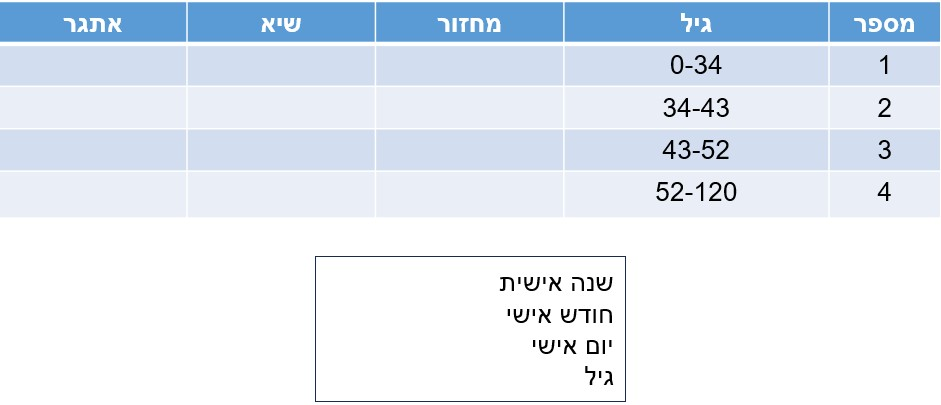
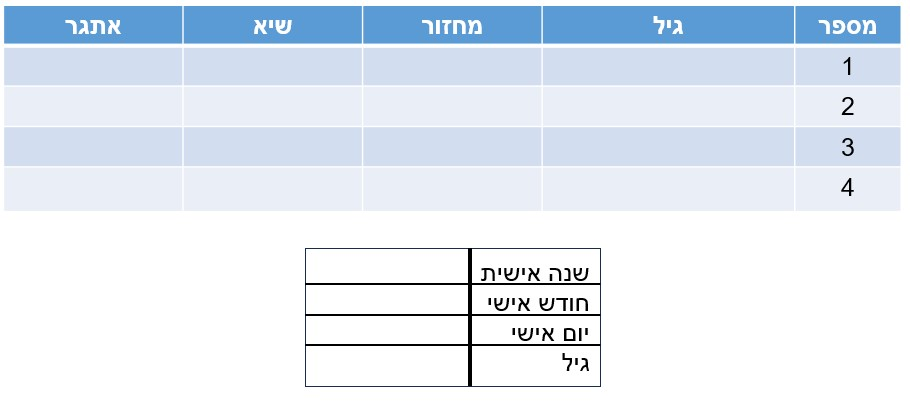
fix age calculate

diff --git a/templates/result.html b/templates/result.html
@@ -22,7 +22,7 @@
   <link rel="stylesheet" type="text/css" href="static/styles.css">
 </head>
 <body>
-  <h1>המפה הנומרולוגית</h1>
+  <h1><center>המפה הנומרולוגית</center></h1>
 <!--  <h2>תוצאות:</h2>-->
 <!--  <p>שם פרטי: {{ first_name }}</p>-->
 <!--  <p>שם משפחה: {{ last_name }}</p>-->

diff --git a/EldarNumerology.py b/EldarNumerology.py
@@ -167,7 +167,8 @@ class Person:
         total = int(day) + int(month) + int(year)
         # print(f"day is {int(day)}, month is : {int(month)}, years is: {int(year)}, total is : {total}")
         total = self.reduce_value(total)
-        return total
+        self.spirala = total
+        return self.spirala
 
     def getSpirala2(self):
         """Return the number for the spirala ."""
@@ -375,20 +376,42 @@ class Person:
 
         # Parse the date of birth string into a datetime object
         dob = datetime.strptime(date_of_birth, "%d/%m/%Y")
-
         # Get the current date
+        self.firstAge = 36 - self.spirala
+        self.printFirstAge = f"0-{self.firstAge}"
         current_date = datetime.now()
         self.peron_day = self.peron_month + self.reduce_value(current_date.day)
         print(f"personal_day is : {self.peron_day}")
-        print(f"age is : {self.actual_age}")
+        print(f"first age is : {self.printFirstAge}")
         return self.reduce_value(self.peron_day)
 
     def personal_age(self):
         date_of_birth = self.dateofBirth
         dob = datetime.strptime(date_of_birth, "%d/%m/%Y")
         current_date = datetime.now()
-        self.actual_age = current_date.year - dob.year
+        # self.actual_age = current_date.year - dob.year
         return self.actual_age
+
+    def first_age(self):
+        self.firstAge = 36 - self.spirala
+        self.printFirstAge = f"0-{self.firstAge}"
+        print(self.printFirstAge)
+        return self.printFirstAge
+
+    def second_age(self):
+        self.secondAge = int(self.firstAge)+9
+        self.printSecondAge = f"{self.firstAge}-{self.secondAge}"
+        return self.printSecondAge
+
+    def third_age(self):
+        self.thirdAge = int(self.secondAge) + 9
+        self.printThirdAge = f"{self.secondAge}-{self.thirdAge}"
+        return self.printThirdAge
+
+    def fourth_age(self):
+        self.fourthAge = 120
+        self.printFourthAge = f"{self.thirdAge}-{self.fourthAge}"
+        return self.printFourthAge
 
 def plant_parameters(image, parameters, locations):
     """
@@ -455,7 +478,10 @@ def index():
         calThirdChallenge = (person.calculate_challenge(thirdChallenge))
         fourthChallenge = (person.fourth_challenge())
         calFourthChallenge = (person.calculate_challenge(fourthChallenge))
-
+        calFirstAge = (person.first_age())
+        calSecondAge = (person.second_age())
+        calThirdAge = (person.third_age())
+        calFourthAge = (person.fourth_age())
         persoanlYears = (person.personal_year())
         calPersonalYears = (person.calculate_value(persoanlYears))
         persoanlMonth = (person.personal_month())
@@ -489,9 +515,9 @@ def index():
         image2 = cv2.imread("table.jpg")
 
         #   הוספת הטקסטים לתמונה של מפה נומרולוגית
-        parameters2 = [calFirsrtPeriod, calFirsrtPeak, calSecondPeriod, calSecondPeak, calThirdPeriod, calThirdPeak,
+        parameters2 = [calFirstAge, calSecondAge, calThirdAge, calFourthAge, calFirsrtPeriod, calFirsrtPeak, calSecondPeriod, calSecondPeak, calThirdPeriod, calThirdPeak,
                       calFourthPeriod, calFourthPeak, calFirstChallenge, calSecondChallenge, calThirdChallenge, calFourthChallenge,calPersonalYears, calPersonalMonth, calPersonalDay, calPersoanlAge]
-        locations2 = [(447, 68), (275, 68), (447, 110), (275, 110), (447, 154), (276, 154), (447, 204), (276, 204), (87, 68), (87, 110), (87, 150), (87, 190), (424, 282), (424, 316), (424, 352), (424, 386)  ]
+        locations2 = [(667, 68), (667, 110), (667, 154), (667, 204), (447, 68), (275, 68), (447, 110), (275, 110), (447, 154), (276, 154), (447, 204), (276, 204), (87, 68), (87, 110), (87, 150), (87, 190), (374, 272), (374, 306), (374, 332), (374, 376)  ]
         color = (0, 0, 0)  # צבע שחור
 
 
